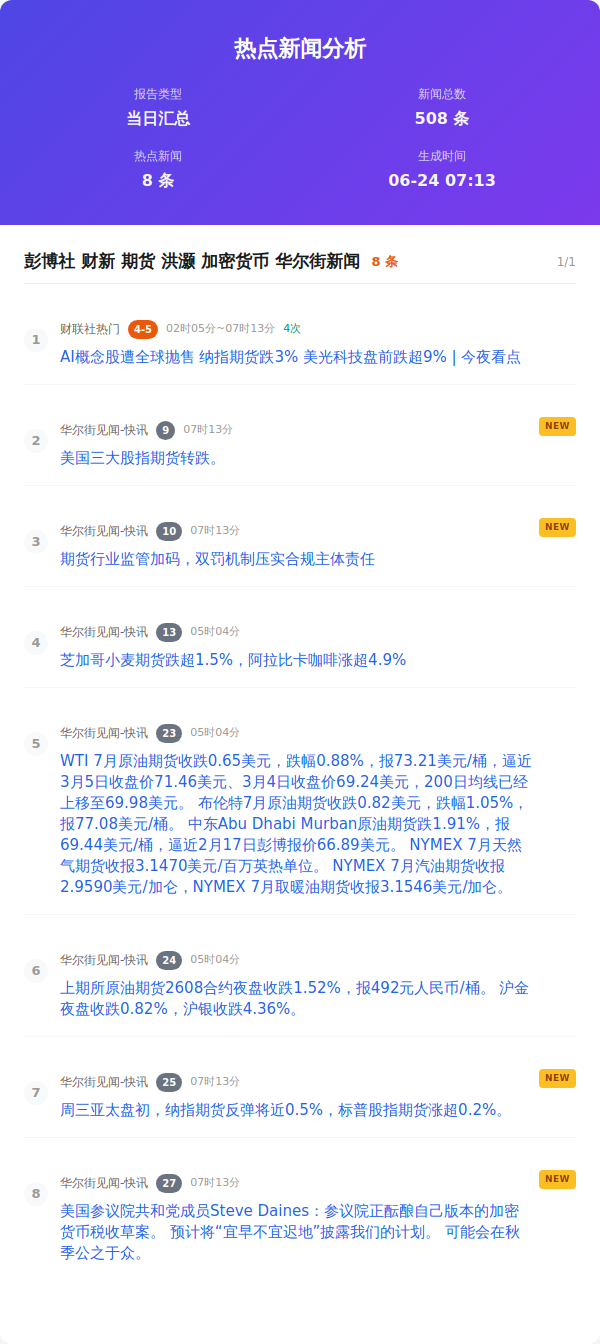
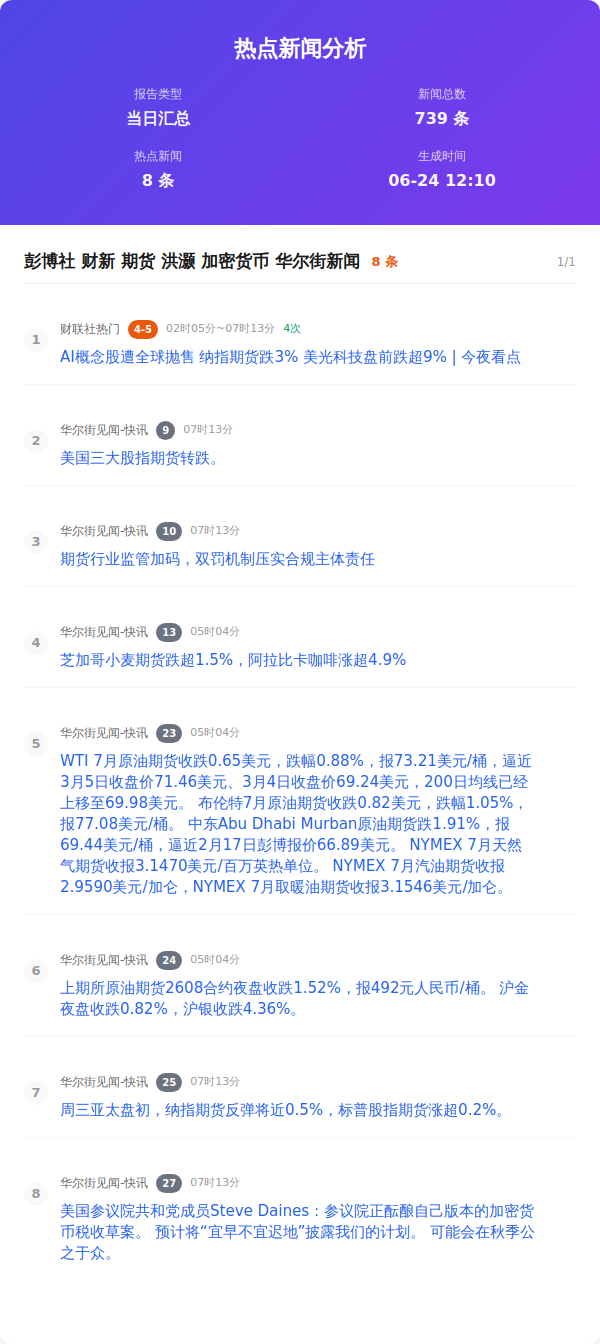
Auto update by GitHub Actions at Wed Jun 24 12:10:17 CST 2026

diff --git a/index.html b/index.html
@@ -357,7 +357,7 @@
                     </div>
                     <div class="info-item">
                         <span class="info-label">新闻总数</span>
-                        <span class="info-value">508 条</span>
+                        <span class="info-value">739 条</span>
                     </div>
                     <div class="info-item">
                         <span class="info-label">热点新闻</span>
@@ -365,7 +365,7 @@
                     </div>
                     <div class="info-item">
                         <span class="info-label">生成时间</span>
-                        <span class="info-value">06-24 07:13</span>
+                        <span class="info-value">06-24 12:10</span>
                     </div>
                 </div>
             </div>
@@ -389,7 +389,7 @@
                             </div>
                         </div>
                     </div>
-                    <div class="news-item new">
+                    <div class="news-item ">
                         <div class="news-number">2</div>
                         <div class="news-content">
                             <div class="news-header">
@@ -399,7 +399,7 @@
                             </div>
                         </div>
                     </div>
-                    <div class="news-item new">
+                    <div class="news-item ">
                         <div class="news-number">3</div>
                         <div class="news-content">
                             <div class="news-header">
@@ -439,7 +439,7 @@
                             </div>
                         </div>
                     </div>
-                    <div class="news-item new">
+                    <div class="news-item ">
                         <div class="news-number">7</div>
                         <div class="news-content">
                             <div class="news-header">
@@ -449,7 +449,7 @@
                             </div>
                         </div>
                     </div>
-                    <div class="news-item new">
+                    <div class="news-item ">
                         <div class="news-number">8</div>
                         <div class="news-content">
                             <div class="news-header">

diff --git a/output/2026年06月24日/html/当日汇总.html b/output/2026年06月24日/html/当日汇总.html
@@ -357,7 +357,7 @@
                     </div>
                     <div class="info-item">
                         <span class="info-label">新闻总数</span>
-                        <span class="info-value">508 条</span>
+                        <span class="info-value">739 条</span>
                     </div>
                     <div class="info-item">
                         <span class="info-label">热点新闻</span>
@@ -365,7 +365,7 @@
                     </div>
                     <div class="info-item">
                         <span class="info-label">生成时间</span>
-                        <span class="info-value">06-24 07:13</span>
+                        <span class="info-value">06-24 12:10</span>
                     </div>
                 </div>
             </div>
@@ -389,7 +389,7 @@
                             </div>
                         </div>
                     </div>
-                    <div class="news-item new">
+                    <div class="news-item ">
                         <div class="news-number">2</div>
                         <div class="news-content">
                             <div class="news-header">
@@ -399,7 +399,7 @@
                             </div>
                         </div>
                     </div>
-                    <div class="news-item new">
+                    <div class="news-item ">
                         <div class="news-number">3</div>
                         <div class="news-content">
                             <div class="news-header">
@@ -439,7 +439,7 @@
                             </div>
                         </div>
                     </div>
-                    <div class="news-item new">
+                    <div class="news-item ">
                         <div class="news-number">7</div>
                         <div class="news-content">
                             <div class="news-header">
@@ -449,7 +449,7 @@
                             </div>
                         </div>
                     </div>
-                    <div class="news-item new">
+                    <div class="news-item ">
                         <div class="news-number">8</div>
                         <div class="news-content">
                             <div class="news-header">